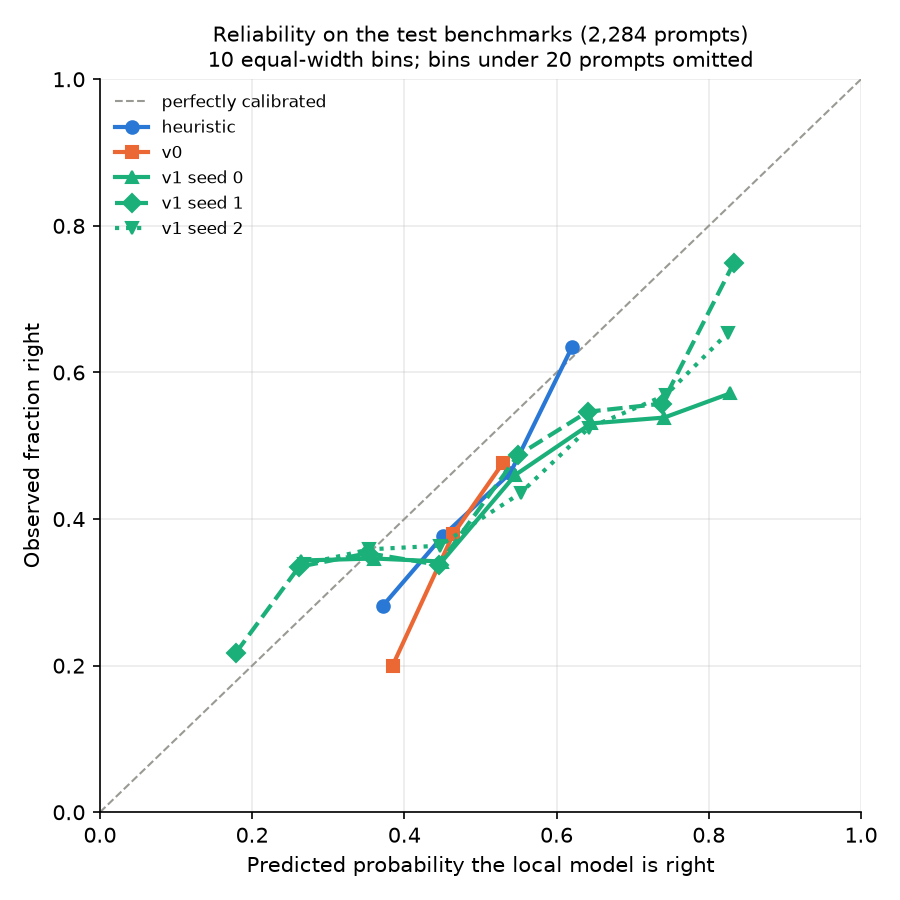
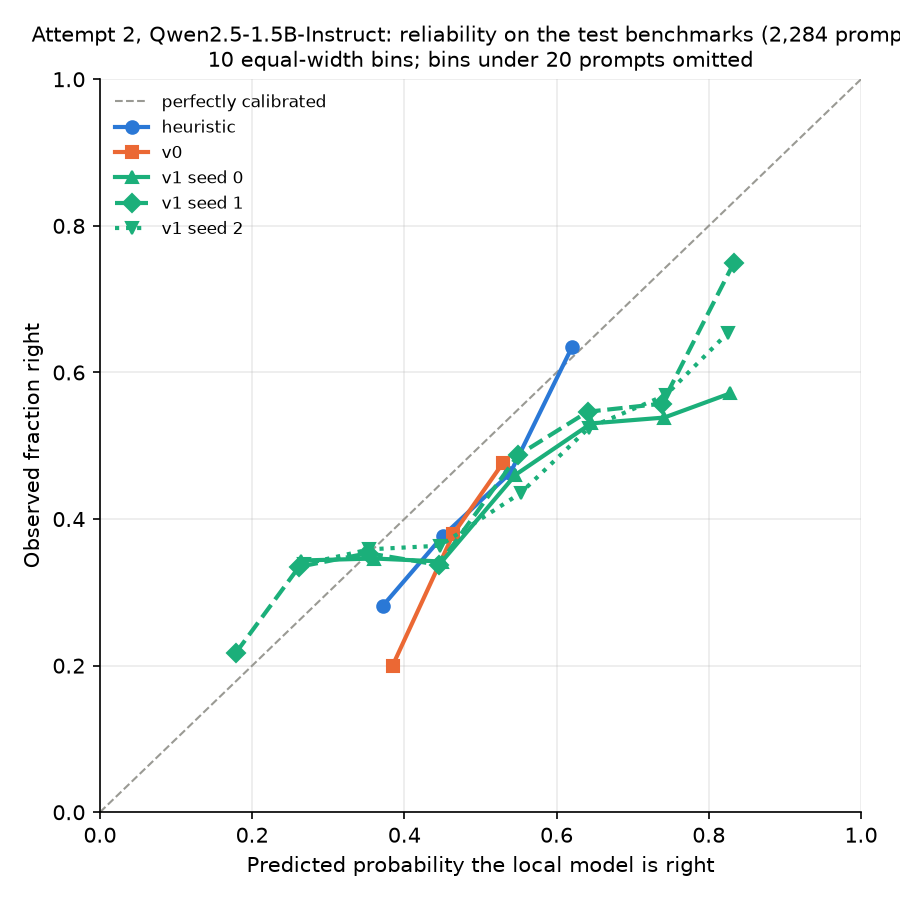
docs: update the README, TODO and log for attempt 3

Changed region(s): [[0.0311, 0.0311, 1.0, 0.0622]]

diff --git a/README.md b/README.md
@@ -3,46 +3,59 @@
 Switchboard tests whether a small classifier can route each prompt to the cheapest model that can
 still answer it, by measuring the saving as a cost-versus-quality curve on public benchmarks.
 
-> **Status: complete, as a negative result.** The pre-registered kill gate failed: on held-out
-> benchmarks no learned router beat a two-feature heuristic, and the money saved at 95% of
-> frontier quality was under 10%. Serving infrastructure was deliberately not built. Every number
-> below is generated from the committed results files by `make readme`; none is typed by hand.
+> **Status: complete, as a negative result.** Three pre-registered attempts, two local models
+> (Qwen2.5 1.5B and 7B) against Claude Opus 5.5: the kill gate failed every time. No learned router
+> reliably beat a two-feature heuristic or random routing, and the saving at 95% of frontier
+> quality stayed between roughly 9% and 14%. Serving infrastructure was deliberately not built.
+> Every number in the generated blocks comes from the committed results files via `make readme`.
 
 ## Headline
 
 <!-- BEGIN GENERATED: readme-headline -->
-> At 95% of always-frontier quality, the learned router (v1, three seeds) keeps **9.0%–10.7%** of traffic on the local model, at **90.4%–91.3%** of always-frontier cost. The length-and-keyword heuristic keeps 11.4% at 91.8%; random routing 7.9% at 93.0%.
->
-> No learned router's cost differs significantly from the heuristic's (every 95% bootstrap interval includes zero). **The pre-registered kill gate failed**: no router beats both the heuristic and random routing on any seed.
+| At 95% of always-frontier quality | Attempt 2: `Qwen2.5-1.5B-Instruct` local | Attempt 3: `Qwen2.5-7B-Instruct-AWQ` local |
+| --- | --- | --- |
+| Local model right (test subset) | 40.0% | 63.9% |
+| Learned router, v1 (3 seeds) | **9.0%–10.7% kept local, 90.4%–91.3% of the cost** | **14.4%–16.0% kept local, 85.7%–88.5% of the cost** |
+| Length-and-keyword heuristic | 11.4% kept local, 91.8% of the cost | 12.7% kept local, 90.7% of the cost |
+| Random routing | 7.9% kept local, 93.0% of the cost | 12.5% kept local, 87.6% of the cost |
+| v1 significantly cheaper than the heuristic | no seed | no seed |
+| Pre-registered kill gate | **failed** | **failed** |
 <!-- END GENERATED: readme-headline -->
 
 ```bash
 make sweep && make readme   # regenerates the curve, the gate verdict and every number here
 ```
 
-![Cost-quality curve](reports/figures/cost-quality-attempt2.png)
+![Cost-quality curve, 1.5B local model](reports/figures/cost-quality-attempt2.png)
+![Cost-quality curve, 7B local model](reports/figures/cost-quality-attempt3.png)
 
-Every router — learned, heuristic or random — sits close to the straight line between
-always-local and always-frontier. That line is what you get by routing a share of traffic at
+With either local model, every router — learned, heuristic or random — sits close to the
+straight line between always-local and always-frontier. That line is what you get by routing a share of traffic at
 random, so a curve on it means the router found almost nothing worth keeping local.
 
 ## What was found
 
-1. **The local model's accuracy caps the saving, whatever the router does.** The 1.5B local model
-   is right on 40% of the test prompts and Claude Opus 5.5 on 98%. Holding 95% of frontier quality
-   leaves room to keep only about a tenth of traffic local, so even a good router saves little.
-2. **A naive learned router learns where a prompt came from, not how hard it is.** Trained on three
+1. **A stronger local model raised the ceiling, not the result.** Replacing the 1.5B with a 7B
+   lifted local accuracy on the cost subset from 40% to 64% and cut the cost of a *perfect* router
+   from about 66% to 44% of always-frontier (R2, attempt 3). The learned routers captured almost
+   none of that: their saving rose only from about 9–10% to 12–14%, about what random routing got.
+2. **The stronger model's mistakes are harder to predict from the prompt.** Every router's AUROC
+   fell with the 7B (heuristic 0.61 → 0.55, fine-tuned v1 about 0.60 → 0.54). The heuristic
+   lost the most: the 7B's failures are much less tied to visible signs of difficulty such as
+   prompt length and keywords.
+3. **A naive learned router learns where a prompt came from, not how hard it is.** Trained on three
    benchmarks, the frozen-encoder router scored 0.71 AUROC on a random row split and 0.55 on unseen
    benchmarks — it had learned each benchmark's base rate. A wider, re-weighted training mix
    (attempt 2) removed that shortcut.
-3. **Fine-tuning helped, but only up to the heuristic.** The fine-tuned encoder (v1) beat the
+4. **Fine-tuning helped, but only up to the heuristic.** The fine-tuned encoder (v1) beat the
    frozen one beyond its seed spread, and tied a logistic regression on prompt length and a
    twelve-word keyword list. Temperature scaling improved calibration on every seed, but not to
-   the 0.05 ECE target.
-4. **AUROC gains of a few points did not turn into money.** At these base rates the cost curves of
+   the 0.05 ECE target; with the 7B it made two seeds worse, most likely because the validation
+   benchmark is far easier for the 7B (90% right) than the test benchmarks are (67%).
+5. **AUROC gains of a few points did not turn into money.** At these base rates the cost curves of
    all routers lie within the bootstrap noise of one another.
 
-The full analysis, including both pre-registrations, is in
+The full analysis, including all three pre-registrations, is in
 [`reports/R2-kill-gate.md`](reports/R2-kill-gate.md); the label pipeline and its audits are in
 [`reports/R1-labels.md`](reports/R1-labels.md).
 
@@ -55,11 +68,12 @@ of always-frontier at a fraction of the cost.
 Written before any training code:
 
 1. **If the heuristic baseline's curve matches or dominates the learned router's curve, the model is
-   unnecessary.** — *This happened for v0 and two of the three v1 seeds; the third beat the heuristic
-   by margins its bootstrap intervals cannot separate from zero.*
+   unnecessary.** — *This happened in both cost-evaluated attempts, for v0 and for two of the three
+   v1 seeds each time.*
 2. **If random routing at the same escalation rate matches the router's quality, the classifier has
-   not learned a usable signal.** — *This happened for v0 and two of the three v1 seeds, at one or more
-   escalation rates.* No router passed both.
+   not learned a usable signal.** — *This also happened, for v0 and two of three v1 seeds each time.*
+   One v1 seed per attempt passed one or both, never every seed, and none passed the AUROC floor
+   with the 7B.
 
 The roadmap's rule was to stop rather than build serving around a result that does not exist.
 The exact pass/fail definitions were committed before the curves were computed.
@@ -67,16 +81,9 @@ The exact pass/fail definitions were committed before the curves were computed.
 ## Results
 
 <!-- BEGIN GENERATED: readme-results -->
-**Base rates** — how often each model is already right.
+AUROC on all test prompts (95% bootstrap interval); cost and gate criteria on the 457-prompt subset with frontier answers, at 95% quality retention.
 
-| | Local model (Qwen2.5-1.5B) | Frontier (Claude Opus 5.5) |
-| --- | --- | --- |
-| Train benchmarks (14,989 prompts) | 59.2% | — |
-| Test benchmarks (2,284 prompts) | 41.2% | — |
-| Test subset with frontier answers (457 prompts) | 40.0% | 97.8% |
-| Cost per 1,000 prompts on the subset | $0.08 | $7.58 |
-
-**Routers** — AUROC on all 2,284 test prompts (95% bootstrap interval); cost and gate criteria on the 457-prompt subset at 95% quality retention.
+**Attempt 2 — local model `Qwen2.5-1.5B-Instruct`.** Right on 41.2% of all 2,284 test prompts; on the 457-prompt subset 40.0% at $0.08 per 1,000 prompts, against the frontier's 97.8% at $7.58.
 
 | Router | Test AUROC | ECE | Kept local | Cost vs always-frontier | C1: beats heuristic | C2: beats random |
 | --- | --- | --- | --- | --- | --- | --- |
@@ -89,28 +96,43 @@ The exact pass/fail definitions were committed before the curves were computed.
 
 v1 mean test AUROC 0.596 (seed spread 0.017); ECE for v1 is before → after temperature scaling.
 
-**Why the split matters** — the same frozen-encoder router (v0), scored two ways.
+**Attempt 3 — local model `Qwen2.5-7B-Instruct-AWQ`.** Right on 66.7% of all 2,284 test prompts; on the 457-prompt subset 63.9% at $0.08 per 1,000 prompts, against the frontier's 97.8% at $7.58.
+
+| Router | Test AUROC | ECE | Kept local | Cost vs always-frontier | C1: beats heuristic | C2: beats random |
+| --- | --- | --- | --- | --- | --- | --- |
+| heuristic | 0.547 [0.522, 0.571] | 0.184 | 12.7% | 90.7% | — | — |
+| random | 0.479 [0.454, 0.501] | 0.290 | 12.5% | 87.6% | — | — |
+| v0 | 0.505 [0.480, 0.530] | 0.181 | 10.1% | 91.2% | **fail** | **fail** |
+| v1_s0 | 0.546 [0.521, 0.570] | 0.219 → 0.290 | 15.3% | 85.7% | pass | pass |
+| v1_s1 | 0.531 [0.505, 0.555] | 0.222 → 0.301 | 14.4% | 87.9% | **fail** | **fail** |
+| v1_s2 | 0.544 [0.521, 0.568] | 0.237 → 0.202 | 16.0% | 88.5% | **fail** | **fail** |
+
+v1 mean test AUROC 0.540 (seed spread 0.015); ECE for v1 is before → after temperature scaling.
+
+**Why the split matters** — the frozen-encoder router (v0), scored two ways.
 
 | | Dataset-level split (test benchmarks never seen) | Row split — optimistic |
 | --- | --- | --- |
 | Attempt 1 (train: GSM8K, MMLU, MBPP) | 0.549 [0.524, 0.572] | 0.712 [0.690, 0.734] |
 | Attempt 2 (nine train benchmarks, balanced weights) | 0.564 [0.542, 0.586] | 0.599 [0.580, 0.617] |
+| Attempt 3 (nine train benchmarks, balanced weights) | 0.505 [0.480, 0.530] | 0.610 [0.588, 0.630] |
 
-Charts: `reports/figures/cost-quality-attempt2.png`, `reports/figures/reliability-attempt2.png`.
+Charts: `reports/figures/cost-quality-attempt2.png`, `reports/figures/reliability-attempt2.png`, `reports/figures/cost-quality-attempt3.png`, `reports/figures/reliability-attempt3.png`.
 <!-- END GENERATED: readme-results -->
 
-![Reliability diagram](reports/figures/reliability-attempt2.png)
+![Reliability diagram, 1.5B local model](reports/figures/reliability-attempt2.png)
 
-The heuristic and v0 rarely leave the 0.35–0.65 band: they almost never make a confident call. v1
+With the 1.5B, the heuristic and v0 rarely leave the 0.35–0.65 band: they almost never make a confident call. v1
 spreads its scores wider, which is where its AUROC gain over v0 comes from, but even after
 temperature scaling it is over-confident above 0.6.
 
 ## How it works
 
-1. **Labels.** The local model (Qwen2.5-1.5B-Instruct, served by vLLM on a laptop RTX 4060) answers
-   every prompt from 13 public benchmarks once, greedily. Each answer is graded by machine: exact
+1. **Labels.** A local model — Qwen2.5-1.5B-Instruct, or Qwen2.5-7B-Instruct in 4-bit AWQ for
+   attempt 3, served by vLLM on a laptop RTX 4060 (8 GB) — answers every prompt from 13 public
+   benchmarks once, greedily. Each answer is graded by machine: exact
    match for numbers, the chosen letter for multiple choice, unit tests in a network-less Docker
-   sandbox for code. That gives 18,445 (prompt, local model was right) pairs.
+   sandbox for code. That gives 18,445 (prompt, local model was right) pairs per model.
 2. **Routers.** Each router reads only the prompt and outputs the probability that the local model
    will be right: a length-and-keyword logistic regression (the heuristic), a hash-based random
    score, a frozen `bge-base-en-v1.5` encoder with logistic regression (v0), and the same encoder
@@ -146,7 +168,13 @@ make labels BENCH=all                # terminal 2: generate + grade every benchm
 make train-v0                        # attempt 1 (frozen encoder, narrow mix)
 make train-attempt2                  # attempt 2: heuristic, random, v0, v1 x 3 seeds
 make frontier FRACTION=0.2 MAX_USD=4 # Claude answers for the test subset (needs OPENROUTER_API_KEY)
-make sweep                           # cost-quality curve and gate criteria 1-2
+make sweep ATTEMPT=2                 # cost-quality curve and gate criteria 1-2
+# attempt 3: relabel with the 7B, then train and sweep it
+export SWITCHBOARD_LOCAL_MODEL_ID=Qwen/Qwen2.5-7B-Instruct-AWQ
+export SWITCHBOARD_LOCAL_MODEL_REVISION=b25037543e9394b818fdfca67ab2a00ecc7dd641
+make vllm VLLM_DTYPE=float16 VLLM_MAX_SEQS=16   # terminal 1
+make labels BENCH=all                           # terminal 2
+make train-attempt3 && make sweep ATTEMPT=3
 make readme                          # regenerate this README's numbers and the reliability diagram
 make check                           # lint, strict typecheck, unit tests
 ```
@@ -156,8 +184,10 @@ GPU or an API key. Re-asking Claude for the subset costs about $3.50 at list pri
 
 ## Limitations
 
-- **One local model.** Labels are specific to Qwen2.5-1.5B. A stronger local model raises the
-  ceiling on savings, and this result says nothing about how a router would do then.
+- **Two local models, one family.** Labels are specific to each model; the conclusion held for
+  Qwen2.5 1.5B and 7B, but a different family or a much larger local model was not tested.
+- **Three attempts on the same test benchmarks** — a forking path. Each attempt was
+  pre-registered and none passed, so this weakens no positive claim, but it is stated.
 - **A 457-prompt subset decides the cost curve**, for budget reasons; its intervals are wide. AUROC
   uses all 2,284 test prompts.
 - Benchmark prompts are short and clean; production traffic is not.

diff --git a/whatsDone.md b/whatsDone.md
@@ -671,3 +671,22 @@ Newest entries at the bottom. Each entry: what was done, how it was verified, wh
   per second, then paused overnight. Every generation is cached, so resuming continues where it
   stopped. Same single exclusion as before (`mbpp-0493`, prompt too long).
 - **Next:** finish the relabel (~30 min), `make train-attempt3`, `make sweep ATTEMPT=3`, verdict.
+
+### 2026-10-08 — Attempt 3 finished: the stronger model did not rescue routing
+- **Relabel completed** after the overnight pause (resumed from the cache): 18,445 labels from
+  Qwen2.5-7B-Instruct-AWQ, no failures, the same single over-long prompt excluded.
+- **Training and sweep:** `make train-attempt3` (three v1 seeds, ~15 minutes each) and
+  `make sweep ATTEMPT=3`, using the Claude answers already collected — no API spend.
+- **Result:** the 7B is right on 66.7% of test prompts (1.5B: 41.2%), but every router's AUROC fell
+  (heuristic 0.547, v1 mean 0.540, v0 0.505); criterion 3 fails for all. At 95% of frontier quality
+  the fine-tuned router costs 85.7–88.5% of always-frontier, random routing 87.6%, the heuristic
+  90.7%, while a perfect router would cost 44.2%. Only one v1 seed passes criteria 1–2. **The kill
+  gate fails for the third time.**
+- **Also found:** temperatures fitted on ARC (90% right for the 7B) made two seeds' test calibration
+  worse, because the test benchmarks are much harder for it (67%); and v0's provenance gap returned.
+- **Write-up:** R2 has the attempt-3 verdict and an updated status; the README now compares the two
+  local models side by side, generated from the results; the generator's gate rule was tightened to
+  the pre-registered one (every v1 seed must pass).
+- **Scope:** the owner stopped the project without GCP — no Terraform, cloud serving or demo
+  (Phases 4–6 recorded as not planned).
+- **Verified:** unit tests, ruff and strict mypy pass; attempt 2's sweep reproduces byte for byte.

diff --git a/TODO.md b/TODO.md
@@ -102,6 +102,10 @@ Each phase ends with a report in `reports/` and a gate that can fail.
 - [x] **Owner decision (2026-10-08):** publish the negative result; try a stronger local model only if the laptop GPU can run it. Serving (Phase 4) not started
 - [x] README rewritten around the result; every number generated from `results/` by `make readme` (`bench/readme.py`), reliability diagram added, CI fails if the README drifts from the results
 
+- [x] **Attempt 3** (owner's option 2, pre-registered in R2): attempt 2 with Qwen2.5-7B-Instruct-AWQ as the local model — feasibility probe on the 457 subset (63.9% vs 40.0%; oracle cost 44.2% vs 65.9%), full relabel (18,445 labels), `make train-attempt3`, `make sweep ATTEMPT=3`
+- [x] **Attempt 3 verdict: FAILED.** C3 fails for every router (AUROC fell: heuristic 0.547, v1 0.540, v0 0.505); only v1 seed 0 passes C1–C2. Best v1 costs 85.7–88.5% of always-frontier at 95% retention vs random 87.6%; the oracle's 44.2% headroom goes unused
+- [x] README compares attempts 2 and 3 side by side (generated); the gate rule in the generator matches the pre-registration (v0, or v1 on every seed, passing C1–C3)
+
 ## Phase 3 — Router v1  → `reports/R3-router-v1.md`
 _Done inside attempt 2 (Phase 2) and written up in R2 rather than a separate R3._
 - [x] Fine-tuned encoder (BCE, AdamW, warmup, bf16, early stop on val AUROC), 3 seeds
